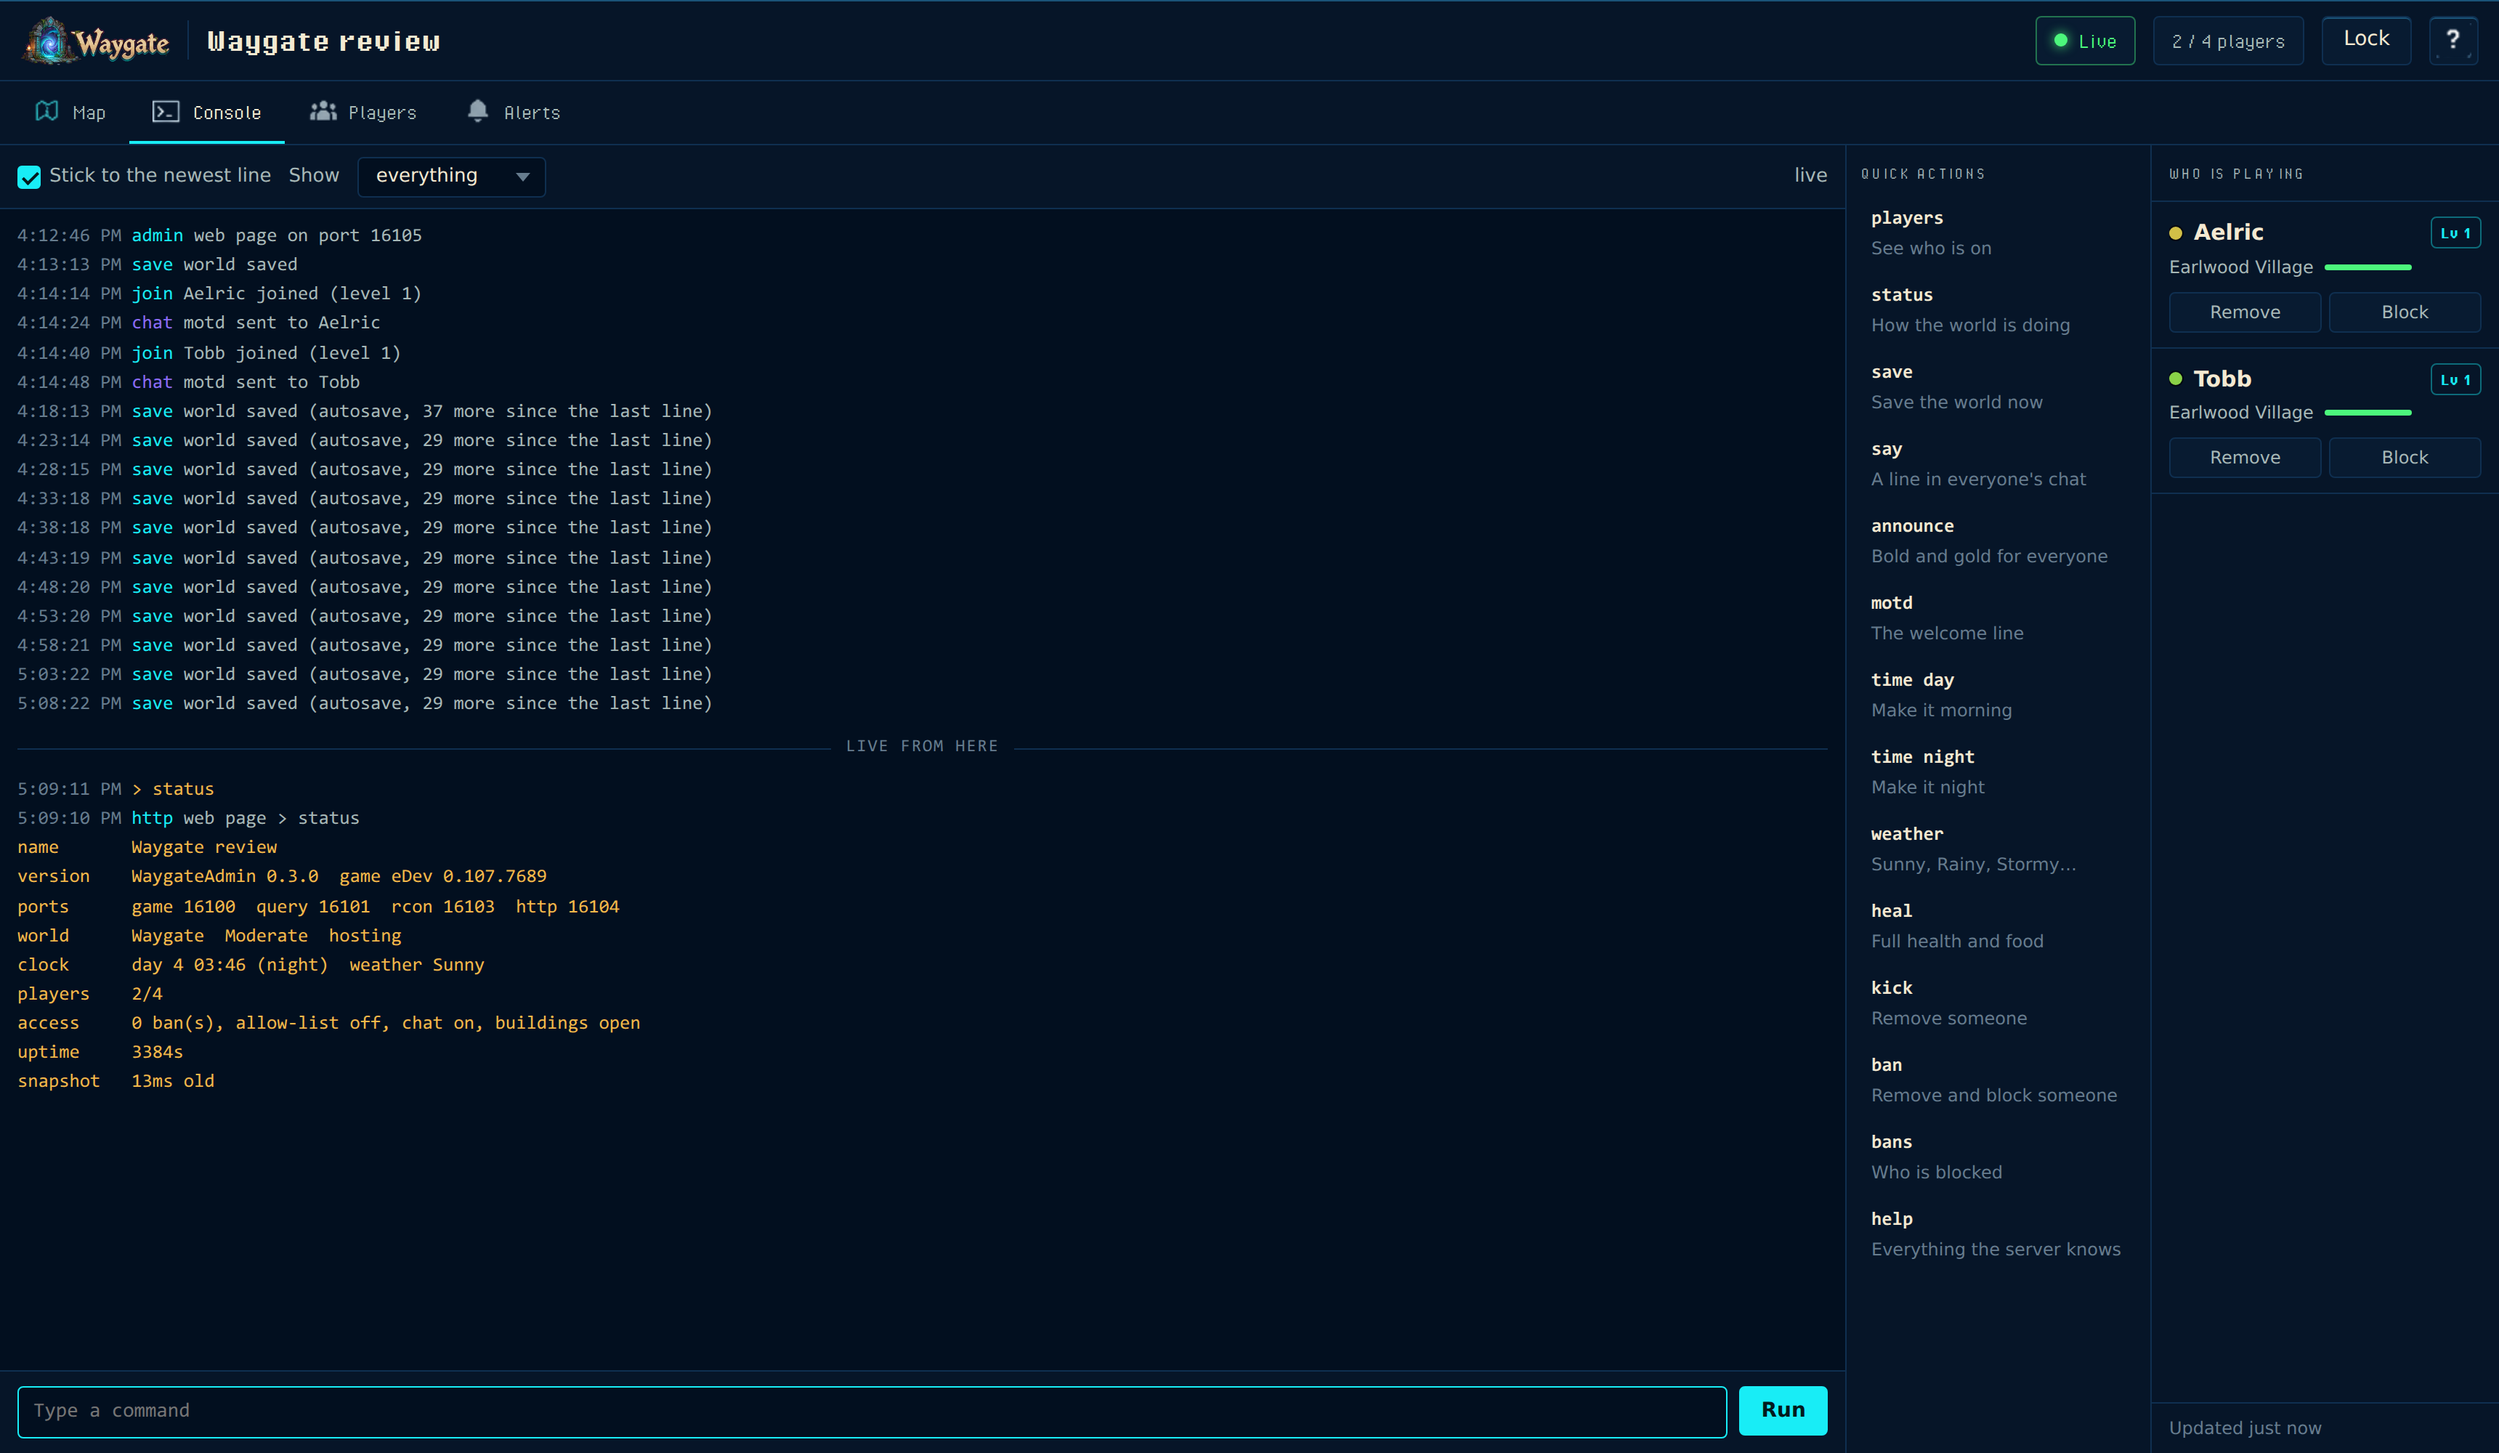
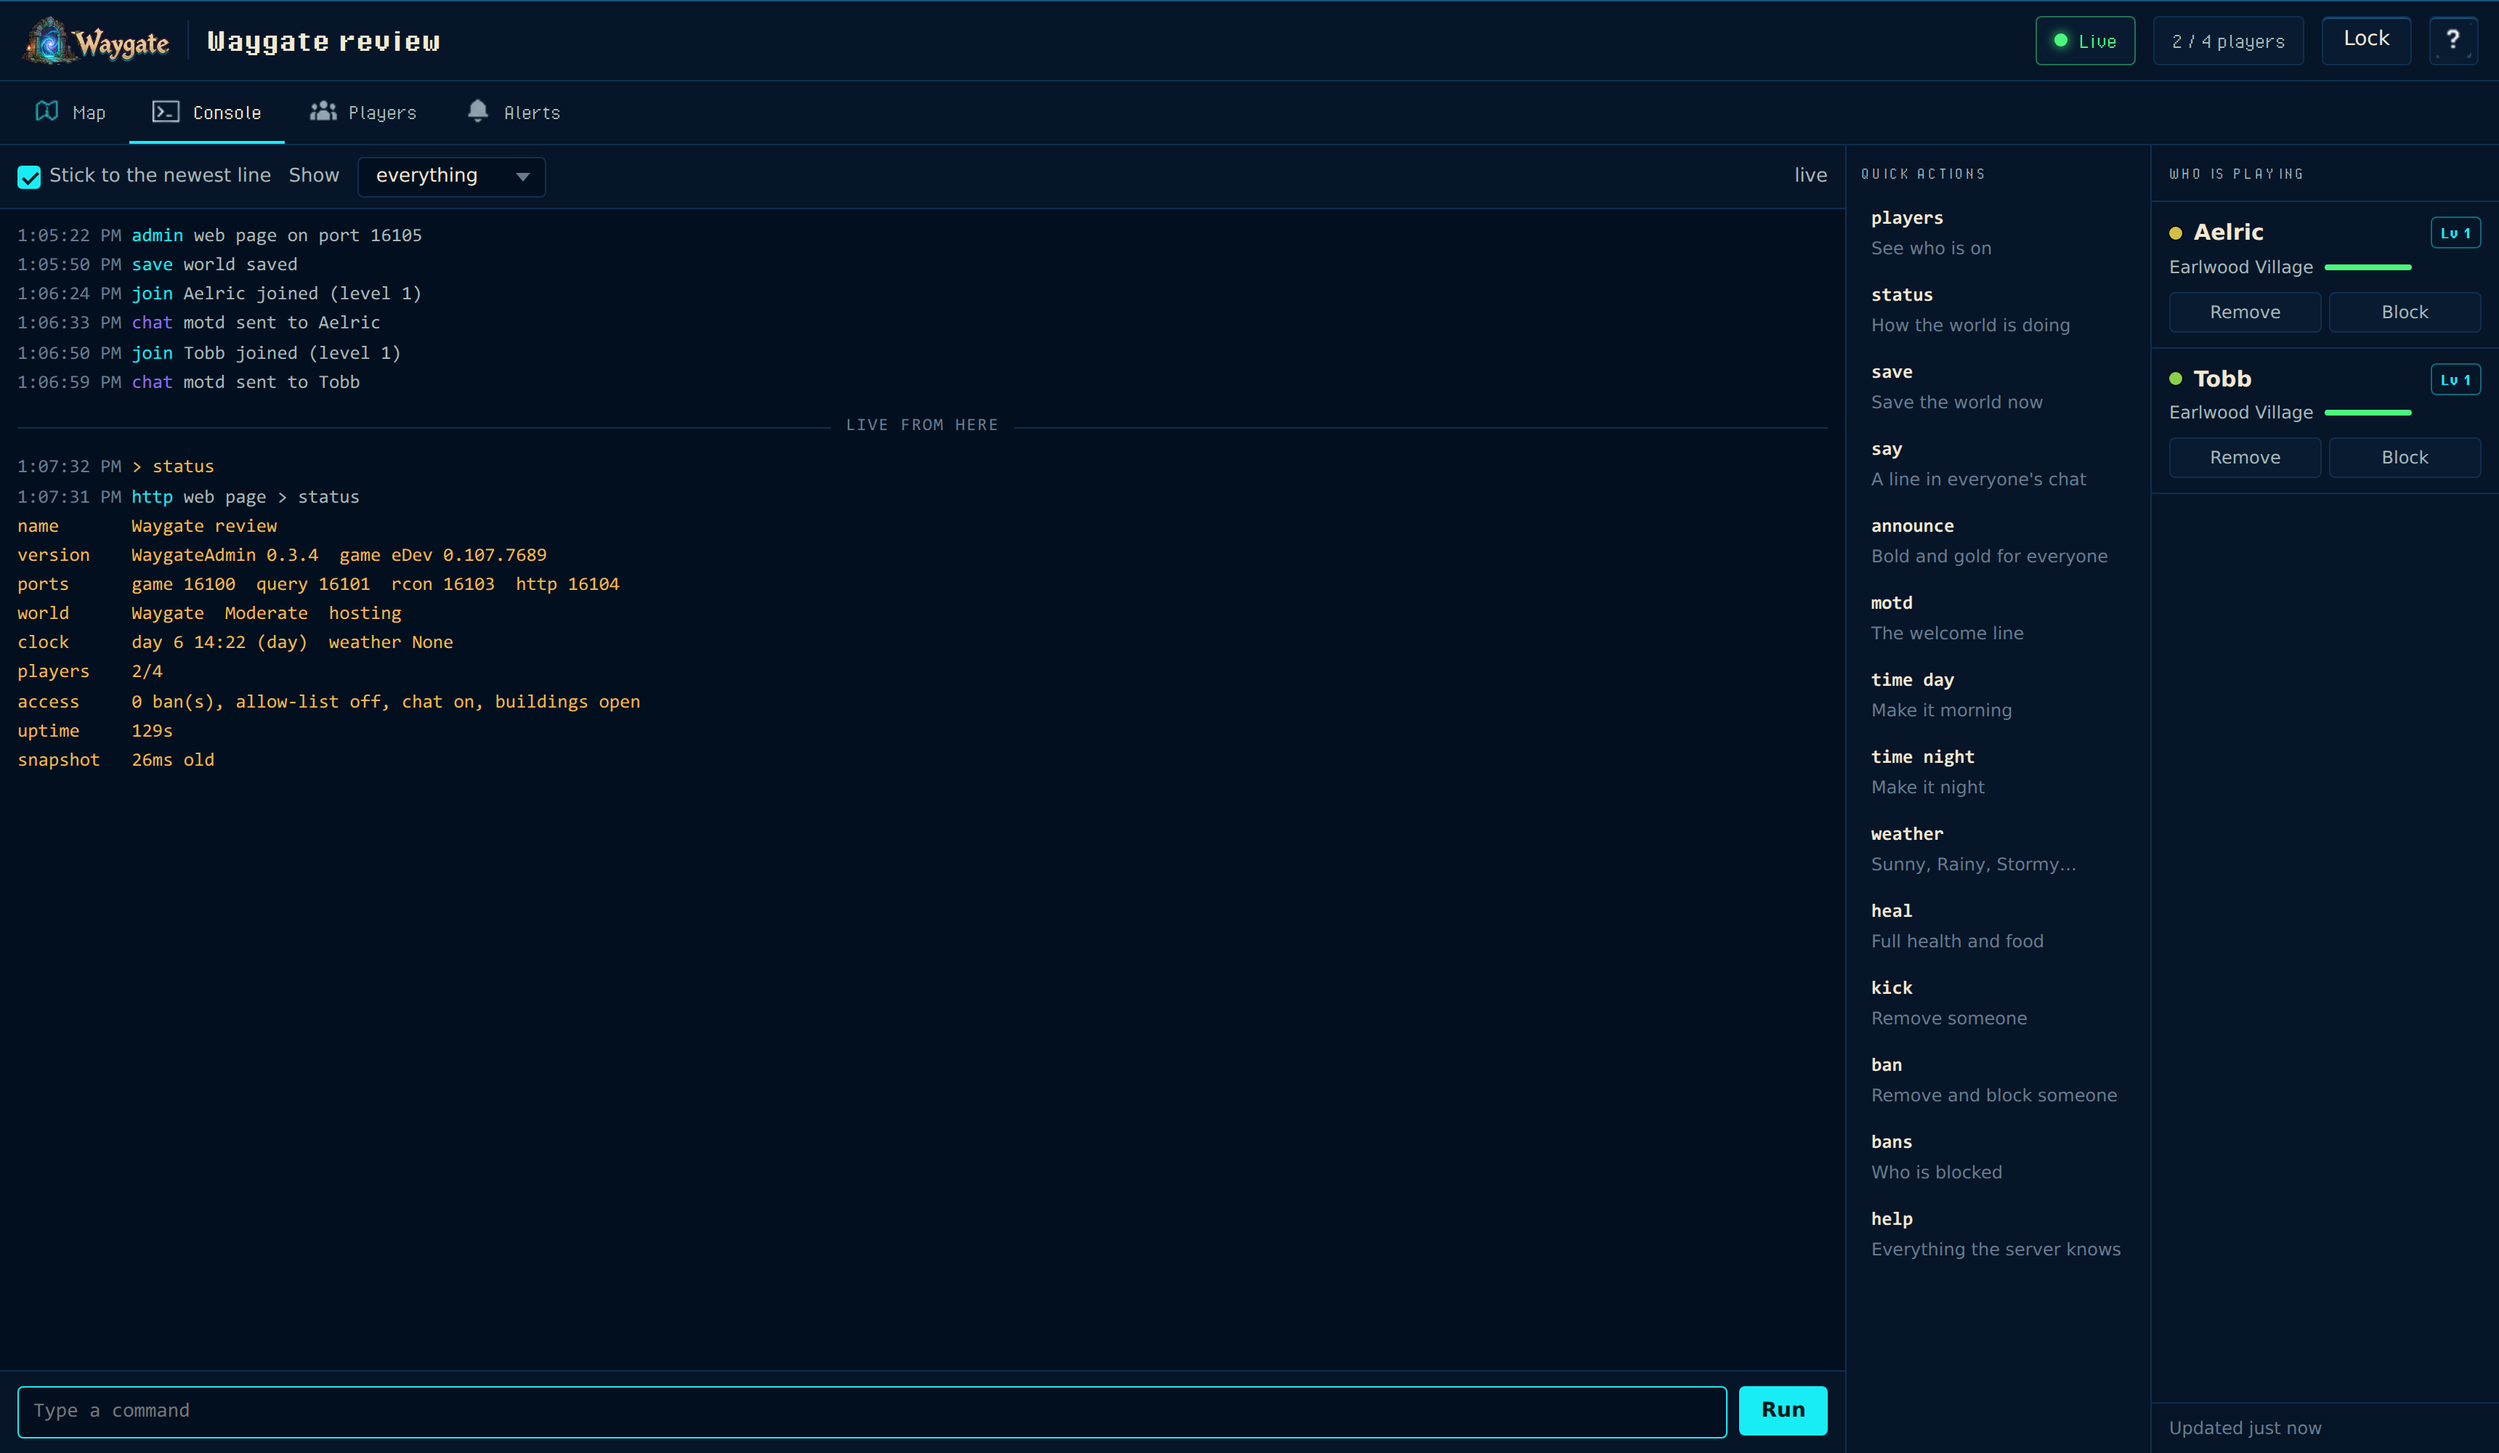
README and web page doc: the map from the game's own pixels, the five-second feed, the fog of war and its key, mods; captures re-shot on 0.3.4 with a fog of war picture

diff --git a/docs/web.md b/docs/web.md
@@ -10,7 +10,7 @@ Every Waygate server serves a page about itself on **game port + 5** (`15574` fo
 
 | Tab | Who sees it | What it shows |
 |---|---|---|
-| Map | anyone with the address | The world as the game draws it, one tab per area (Earlwood, Lost Caverns, Sanctum, Goblin Caves), with every connected player's live position and name, the Waygates and map crystals they have found, boss fights, temporary portals and the Sanctum's buildings. The layers button can veil ground nobody has explored yet. |
+| Map | anyone with the address | The world from the game's own pixels, one tab per area (Earlwood, Lost Caverns, Sanctum, Goblin Caves), with every connected player's live position and name (refreshed every five seconds), the Waygates and map crystals they have found, boss fights, temporary portals and the Sanctum's buildings. The layers button hides or shows each kind of marker and switches the fog of war on. |
 | Console | the owner | The server's live log (joins, leaves, chat, deaths, saves, admin actions, the game's own warnings) and a command line. The quick actions run the common commands; `help` lists them all. |
 | Players | anyone; controls for the owner | Everyone connected, with level, area and time on. The owner can remove or block a player and manage the block list. |
 | Alerts | the owner | Discord messages the server posts itself: joins and leaves, deaths, the server filling up, the world coming up, a scheduled stop, and an optional round-up. |
@@ -27,10 +27,18 @@ The rail on the right lists who is playing on every tab; on a phone it is a shee
 
 ## The map, close up
 
-The map is the world as the game itself draws it: a capture of the loaded world through the game's own renderer, cut into tiles. The package carries it at up to 8 pixels per world unit. Zooming in stops at 16 screen pixels per unit, the game's own closest zoom, where those pixels are doubled cleanly; a picture at exactly its own size is drawn pixel for pixel, and zooming out uses pre-scaled copies, so nothing is stretched or blurred at any level. The layers button hides and shows each kind of marker, and switches the fog of war: the game's own fog over ground no player has discovered yet, off unless `FogOfWar = world` is set (below); the switch works once the page is unlocked.
+The map is the world as the game itself draws it: a capture of the loaded world through the game's own renderer, one screen pixel per sprite pixel, cut into tiles. The package carries it at up to 8 pixels per world unit. Zooming in stops at 16 screen pixels per unit, the game's own closest zoom, where those pixels are doubled cleanly; a picture at exactly its own size is drawn pixel for pixel, and zooming out uses pre-scaled copies, so nothing is stretched or blurred at any level. The layers button hides and shows each kind of marker, and switches the fog of war: the game's own fog over ground no player has discovered yet, off unless `FogOfWar = world` is set (below); the switch works once the page is unlocked.
 
 <p align="center">
   <img src="img/web-map-zoom.png" alt="Earlwood Village at the game's full zoom" width="860">
+</p>
+
+## The fog of war
+
+The game hides a region on its own map until a player has set foot in it, one cut-out per region. The page can do the same: switch **Fog of war** on in the layers menu and every region nobody has discovered yet goes under the game's own fog, with its markers and name held back. The menu also picks whose discoveries count, anyone's or one named player's. It is off by default for the owner, and `FogOfWar = world` under `[Web]` makes it the page's starting state for everyone; the layers menu can still switch it once unlocked.
+
+<p align="center">
+  <img src="img/web-fog.png" alt="The fog of war on: the village a player has discovered is drawn, the rest of Earlwood is under the game's fog, and the layers menu lists whose discoveries count" width="860">
 </p>
 
 ## The password
@@ -52,7 +60,7 @@ Behind NAT, forward TCP `game port + 5` like the two UDP ports. The page is plai
 Enable = true        # serve the page
 Port = 0             # 0 = game port + 5
 PublicMap = true     # false = the map needs the password too
-FogOfWar = off       # world = ground no player has discovered yet is under the game's own fog
+FogOfWar = off       # world = the page starts with every region no player has discovered yet under the game's own fog
 WebRoot =            # optional folder overriding the page files, for editing the page
 
 [Alerts]

diff --git a/README.md b/README.md
@@ -19,7 +19,8 @@
 - Creates and saves the world on the host
 - Takes direct connections on a UDP port
 - No character of its own: nothing is spawned for the server, so it takes no seat, leads no party and is in no list
-- Serves its own web page: the live map of the world with every player's position, the console, who is playing, Discord alerts
+- Serves its own web page: the world map drawn from the game's own pixels, every player's position every five seconds, a fog of war over ground nobody has found yet, the console, who is playing, Discord alerts
+- Loads server mods from a folder and tells the Waygate app which client mods a server needs, so players get them on connect
 - Source RCON and a signed HTTP API for admin tools, once an admin password is set
 - Bans and an allow list keyed on the player's character and address, kept across restarts
 - Answers Source server query on the port above the gameplay port
@@ -77,10 +78,14 @@ Open `http://<server ip>:<game port + 5>/` in a browser. The server serves the p
   <img src="docs/img/web-map.png" alt="The server's web page: the Earlwood map with a player's live position" width="860">
 </p>
 
-- **Map**: the world as the game draws it, one tab per area, with every connected player's position and name, the Waygates and map crystals they have found, boss fights, portals and the Sanctum's buildings. Scroll to zoom in to the game's own pixels.
+- **Map**: the world from the game's own pixels, one tab per area, sharp all the way in to the game's closest zoom. Every connected player's position and name, refreshed every five seconds; the Waygates and map crystals they have found; boss fights, portals and the Sanctum's buildings. The layers menu picks what is drawn, and its fog of war hides every region no player has discovered yet, the game's own fog, either for anyone's discoveries or one player's.
 - **Console**: the server's live log and a command line, with the common commands one click away.
 - **Players**: everyone connected, with level, area and time on; remove or block a player.
 - **Alerts**: Discord messages the server posts itself for joins and leaves, deaths, a full server, the world coming up and a scheduled stop.
+
+<p align="center">
+  <img src="docs/img/web-fog.png" alt="The map with the fog of war on: only the village any player has discovered is drawn, the rest of Earlwood is under the game's fog" width="860">
+</p>
 
 <p align="center">
   <img src="docs/img/web-console.png" alt="The console tab: the live log, the command line and the quick actions" width="860">
